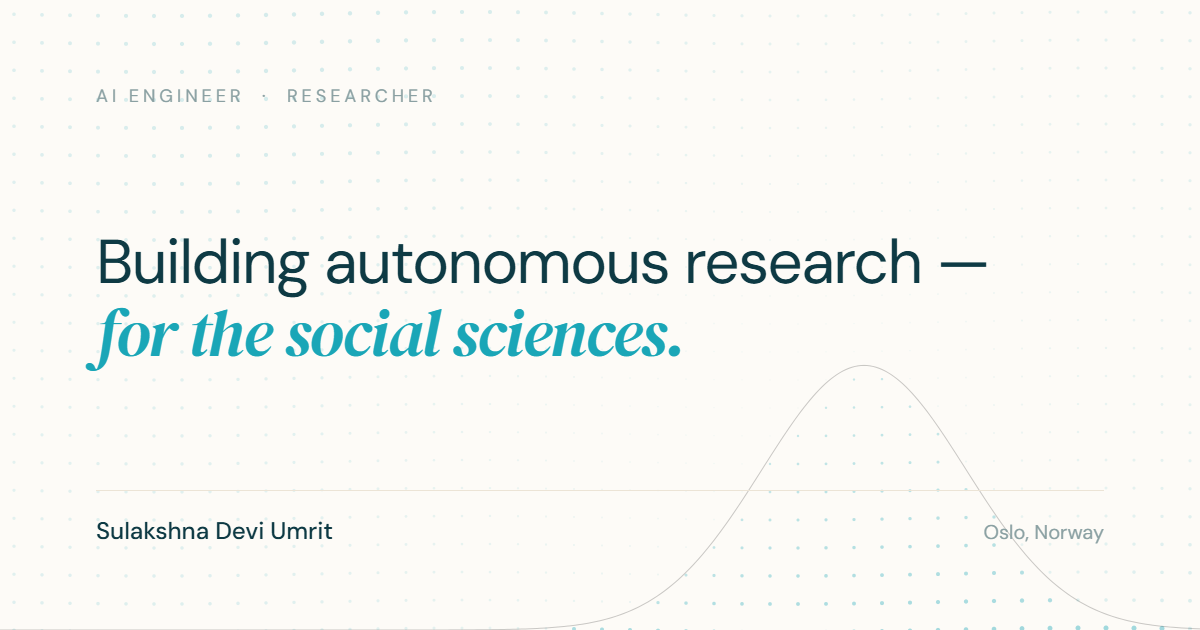
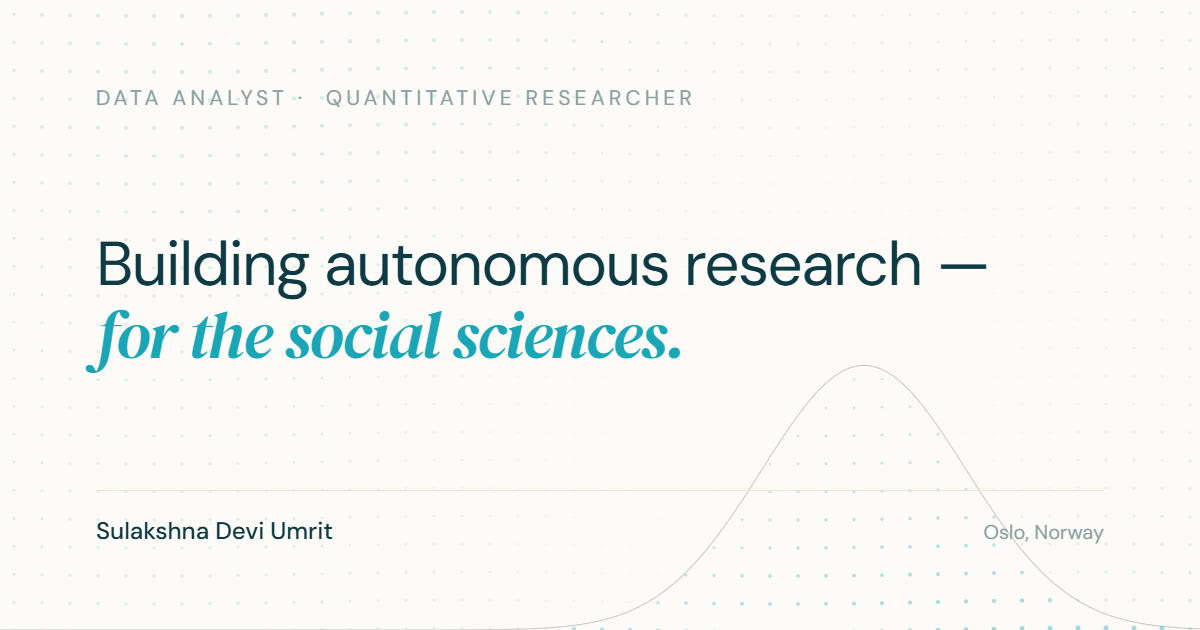
Hero label back to Data Analyst · Quantitative Researcher; larger label and nav name
- Label 11px -> 13-14px; stacks on two lines on small phones
- Nav name 14px -> 18px (17px on phones)

diff --git a/src/styles/global.css b/src/styles/global.css
@@ -83,8 +83,21 @@ a:hover {
   border: 0;
 }
 
-.nowrap {
+.nowrap,
+.eyebrow-part {
   white-space: nowrap;
+}
+
+/* Small phones: the two roles stack on their own lines, without the dot */
+@media (max-width: 480px) {
+  .hero-eyebrow .eyebrow-part,
+  .mobile-menu-foot .eyebrow-part {
+    display: block;
+  }
+
+  .eyebrow-sep {
+    display: none;
+  }
 }
 
 .skip-link {
@@ -201,7 +214,9 @@ a:hover {
 }
 
 .nav-brand {
+  font-size: 18px;
   font-weight: 500;
+  letter-spacing: -0.01em;
   white-space: nowrap;
 }
 
@@ -335,8 +350,9 @@ html.menu-open {
 
 .hero-eyebrow {
   margin: 0;
-  font-size: 11px;
-  letter-spacing: 0.22em;
+  font-size: clamp(13px, 1vw, 14px);
+  line-height: 1.7;
+  letter-spacing: 0.2em;
   text-transform: uppercase;
   color: var(--faint);
 }
@@ -1157,7 +1173,7 @@ html.menu-open {
   }
 
   .nav-brand {
-    font-size: 15px;
+    font-size: 17px;
   }
 
   .nav-links {

diff --git a/src/data/content.ts b/src/data/content.ts
@@ -26,7 +26,7 @@ export const nav = [
 ];
 
 export const hero = {
-  eyebrow: ['AI Engineer', 'Researcher'],
+  eyebrow: ['Data Analyst', 'Quantitative Researcher'],
   title: 'Building autonomous research —', // non-breaking space keeps the dash on the first line
   titleAccent: 'for the social sciences.',
   primaryLink: { label: 'View work', href: '#work' },
